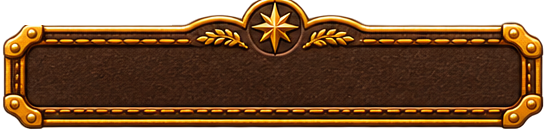
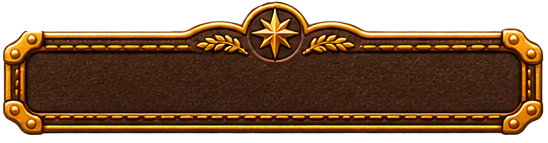
v461: toast crest ring's cut-off top rebuilt
Claude-Session: https://claude.ai/code/session_01VobLTE1x2bdEWSaM1Fw7Gx

diff --git a/index.html b/index.html
@@ -207,17 +207,18 @@ img.px { display: block; image-rendering: pixelated; pointer-events: none; -webk
 #toast { position: fixed; left: 50%; top: calc(env(safe-area-inset-top, 0px) + 84px); transform: translateX(-50%); font-family: var(--display); font-size: 15px; line-height: 1.6; color: var(--bone); background: var(--panel); border: 3px solid var(--blood); box-shadow: 4px 4px 0 #000; padding: 14px 22px; max-width: min(640px, calc(100vw - 32px)); width: max-content; box-sizing: border-box; text-align: center; pointer-events: none; }
 #toast.good { border-color: var(--gold); color: var(--gold); }
 #toast.calm { border-color: var(--wisp); color: var(--wisp); }
-/* (v457) discoveries, entering a place, dusk and dawn: the kit's floating toast (548 x 137, title centred at 274, 86),
+/* (v457) discoveries, entering a place, dusk and dawn: the kit's floating toast (548 x 137, title centred at 274, 86;
+   v461: 6 px added on top for the crest's rebuilt top, so everything sits 6 lower in it),
    under the top banner, scaled by --toastS; the title shrinks to fit (toast) */
-#toast.framed { top: calc(env(safe-area-inset-top, 0px) + calc(var(--tcK, 0.5) * var(--ui, 1)) * 118px + 10px); width: 548px; height: 137px; max-width: none; padding: 0; border: 0; box-shadow: none; background: url("ui/top/toast-frame.webp?v460") 0 0 / 548px 137px no-repeat; transform: translateX(-50%) scale(calc(var(--toastK, 0.6) * var(--ui, 1))); transform-origin: 50% 0; }
+#toast.framed { top: calc(env(safe-area-inset-top, 0px) + calc(var(--tcK, 0.5) * var(--ui, 1)) * 118px + 10px - calc(var(--toastK, 0.6) * var(--ui, 1)) * 6px); width: 548px; height: 143px; max-width: none; padding: 0; border: 0; box-shadow: none; background: url("ui/top/toast-frame.webp?v461") 0 0 / 548px 143px no-repeat; transform: translateX(-50%) scale(calc(var(--toastK, 0.6) * var(--ui, 1))); transform-origin: 50% 0; }
 /* (v458) the crest's icon over the frame's own star: sun at daybreak, moon at nightfall, the four-point star (on a
    dark well hiding the frame's) entering a place already found; centred on the crest at (274, 27). (Preloaded by name:
    ui/top/icon-sun.webp ui/top/icon-moon.webp ui/top/icon-star.webp) */
 #toast.framed .ti { position: absolute; }
-#toast.framed .ti.sun, #toast.framed .ti.moon { left: 245.25px; top: -1px; width: 57.5px; height: 56px; }
-#toast.framed .ti.star { left: 245.1px; top: -2.3px; width: 59.3px; height: 59.3px; }
-#toast.framed .tw { position: absolute; left: 251px; top: 4px; width: 46px; height: 46px; border-radius: 50%; background: radial-gradient(circle, #3a2412 0%, #2a170a 70%, #1c0f06 100%); }
-#toast.framed .tt { position: absolute; left: 44px; width: 460px; top: 69px; height: 34px; font: 600 25px/34px var(--wk); color: #f0dfb7; text-shadow: 1px 1px 0 #21130d; white-space: nowrap; text-align: center; }
+#toast.framed .ti.sun, #toast.framed .ti.moon { left: 245.25px; top: 5px; width: 57.5px; height: 56px; }
+#toast.framed .ti.star { left: 245.1px; top: 3.7px; width: 59.3px; height: 59.3px; }
+#toast.framed .tw { position: absolute; left: 251px; top: 10px; width: 46px; height: 46px; border-radius: 50%; background: radial-gradient(circle, #3a2412 0%, #2a170a 70%, #1c0f06 100%); }
+#toast.framed .tt { position: absolute; left: 44px; width: 460px; top: 75px; height: 34px; font: 600 25px/34px var(--wk); color: #f0dfb7; text-shadow: 1px 1px 0 #21130d; white-space: nowrap; text-align: center; }
 
 button { font-family: var(--display); font-size: 10px; color: var(--bone); background: var(--panel); border: 3px solid var(--panel-edge); box-shadow: 3px 3px 0 #000; padding: 10px 10px; cursor: pointer; letter-spacing: 0.05em; }
 button:hover { border-color: var(--dim); }
@@ -22725,7 +22726,7 @@ function frameBody(now) {
 }
 // The error box: the first time each error comes up, its message and where it happened (the top of its stack) are
 // shown top middle, with a COPY button, so it can be passed on from a browser with no console to hand
-const GAME_VERSION = 460, crashSeen = new Map();
+const GAME_VERSION = 461, crashSeen = new Map();
 function showCrash(err) {
   const msg = String(err && err.message || err), key = msg + (err && err.stack ? err.stack.split('\n')[1] : '');
   const n = (crashSeen.get(key) || 0) + 1;

diff --git a/README.md b/README.md
@@ -290,6 +290,8 @@ Everything is now made of refined materials: floors and doors of planks, stone f
 
 **v354:** the minimap plate capitalises a place name's first word (plateName). **v355:** refining slot counts sit inside the slot's well (right 24, bottom 19), clear of the corner rivets. Character view defaults from Jordan's tuning (fov 20, dist 4.15, lift 1.23).
 
+**v461:** The toast's crest ring ran off the top of the kit's image (circle centre about 274.5, 32, radius 36: its top 4 px missing, Jordan): ui/top/toast-frame.webp is now 548 x 143 with 6 px added on top, the missing cap filled from the ring's own arc turned 28 degrees in from each side (inside the circle only). The CSS shifts the frame up 6 px and its title and icons down 6, so nothing moves on screen.
+
 **v460:** The toast frame's crest arch was cut short on its left (a hard step down at about x 205, Jordan): ui/top/toast-frame.webp now takes columns 172-241, rows 0-29 mirrored from the right side (about x' = 550 - x), which curves down cleanly.
 
 **v459:** The entering toast's star is four-pointed (Jordan): ui/top/icon-star.webp is the kit's compass star with its four short diagonal points trimmed away (alpha kept where min(|dx|,|dy|) < 8(1 - max/35.5)), so it no longer matches the 8-point crest discoveries show.
